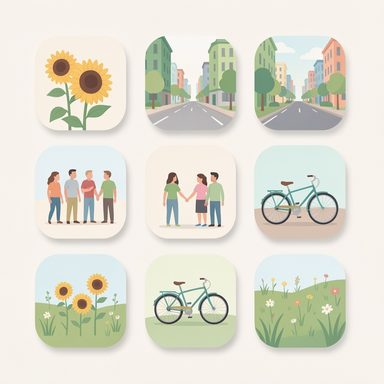
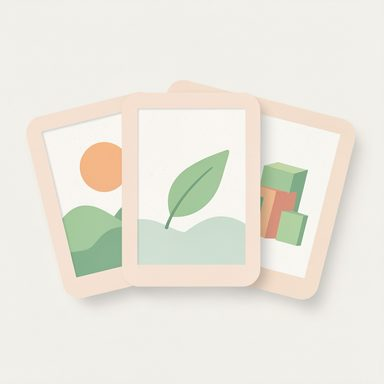
feat(web): show three collections in the arbeiten marketplace section
- Marktplatz shows the first three collections as App-Store cards (reuses
  CollectionCards with a new limit and an optional heading) instead of the
  single featured widget
- Bild & Video as a 3x2 grid with fixed-size preview sheets; new voice and
  mediathek illustrations
- Weitere Werkzeuge without Projekte, in a row of three
- Trends bars read a --dash-bar token: eucalyptus gradient on the neutral
  surface, unchanged flat accent on /wissen

diff --git a/apps/web/src/features/workplace/components/ArbeitenSections.tsx b/apps/web/src/features/workplace/components/ArbeitenSections.tsx
@@ -1,14 +1,7 @@
-import { type MarketplaceItem } from '@gruenerator/contracts';
-import {
-  featureById,
-  itemHref,
-  marketplaceHref,
-  useMarketplaceFrontpage,
-} from '@gruenerator/shared/marketplace';
-import { Button, SectionHeader, cn } from '@gruenerator/ui';
+import { marketplaceHref, useMarketplaceFrontpage } from '@gruenerator/shared/marketplace';
+import { SectionHeader, cn } from '@gruenerator/ui';
 import { type ReactNode } from 'react';
-import { PiChatCircleText, PiCheck, PiPlus, PiSparkle } from 'react-icons/pi';
-import { Link } from 'react-router-dom';
+import { Link, useNavigate } from 'react-router-dom';
 
 import {
   CANVAS_TOOLS,
@@ -17,17 +10,12 @@ import {
   WORKPLACE_TOOLS,
   filterWorkplaceTools,
 } from '../../../config/workplaceToolsConfig';
-import { chatPathOf, metaLine, viewOf } from '../../marketplace/kindViews';
-import {
-  type MarketplaceActions,
-  useMarketplaceActions,
-} from '../../marketplace/useMarketplaceActions';
+import { CollectionCards } from '../../marketplace/MarketplaceCollections';
 import { useMonitorLocaleParam } from '../../monitor/hooks/useMonitorLocaleParam';
 import { HeadlineSlider } from '../../notebook/wissen/HeadlineSlider';
 import { PollCard } from '../../notebook/wissen/PollCard';
 import { TrendsCard } from '../../notebook/wissen/TrendsCard';
 import { useWissenNews } from '../../notebook/wissen/useWissenNews';
-import { AsideCard } from '../../notebook/wissen/WissenLayout';
 
 import { ARBEITEN_GRID } from './arbeitenGrid';
 import { SHOW_TOOL_PREVIEWS, TOOL_PREVIEWS } from './ToolPreviews';
@@ -101,98 +89,9 @@ export function BriefingSection() {
   );
 }
 
-function ItemLink({
-  item,
-  className,
-  children,
-}: {
-  item: MarketplaceItem;
-  className: string;
-  children: ReactNode;
-}) {
-  const href = itemHref(item) ?? marketplaceHref();
-  return href.startsWith('http') ? (
-    <a href={href} target="_blank" rel="noopener noreferrer" className={className}>
-      {children}
-    </a>
-  ) : (
-    <Link to={href} className={className}>
-      {children}
-    </Link>
-  );
-}
-
-const SKELETON_BLOCK = 'rounded-xl bg-(--dash-skeleton)';
-
-/** „Zu meinen Grüneratoren" — only for items that aren't the person's own. */
-function SaveButton({ item, actions }: { item: MarketplaceItem; actions: MarketplaceActions }) {
-  if (item.isOwn) return null;
-  const label = item.saved ? viewOf(item).saveLabel.added : viewOf(item).saveLabel.add;
-  const Icon = item.saved ? PiCheck : PiPlus;
-  return (
-    <Button variant="outline" aria-pressed={item.saved} onClick={() => actions.toggleSave(item)}>
-      <Icon aria-hidden />
-      {label}
-    </Button>
-  );
-}
-
-function FeaturedCard({ item, actions }: { item: MarketplaceItem; actions: MarketplaceActions }) {
-  const page = useMarketplaceFrontpage();
-  const feature = featureById(page.data?.featureId ?? null);
-  const chatPath = chatPathOf(item);
-  const visual = viewOf(item).visual(item);
-  return (
-    <AsideCard
-      aria-labelledby="arbeiten-marktplatz-tipp"
-      className="md:flex-row md:items-center md:gap-6"
-    >
-      <div className="flex min-w-0 flex-1 flex-col gap-2.5">
-        <span className="text-xs font-bold uppercase tracking-[0.08em] text-(--dash-mg)">
-          {feature?.kicker ?? 'Neu im Marktplatz'}
-        </span>
-        <h3
-          id="arbeiten-marktplatz-tipp"
-          className="m-0 text-2xl font-bold leading-tight text-balance text-foreground-heading md:text-[28px]"
-        >
-          {item.title}
-        </h3>
-        <p className="m-0 line-clamp-3 max-w-[34rem] text-[15px] leading-relaxed text-muted-foreground">
-          {feature?.pitch ?? item.description}
-        </p>
-        <span className="text-[13px] text-muted-foreground">{metaLine(item)}</span>
-        <div className="mt-1 flex flex-wrap gap-2">
-          {chatPath ? (
-            <Button asChild>
-              <Link to={chatPath}>
-                <PiChatCircleText aria-hidden />
-                Im Chat ausprobieren
-              </Link>
-            </Button>
-          ) : (
-            <Button asChild>
-              <ItemLink item={item} className="">
-                Ansehen
-              </ItemLink>
-            </Button>
-          )}
-          <SaveButton item={item} actions={actions} />
-        </div>
-      </div>
-      <span
-        aria-hidden
-        className="hidden size-28 shrink-0 items-center justify-center rounded-3xl bg-(--dash-mg-tint) text-6xl text-(--dash-mg) md:flex"
-      >
-        {visual.type === 'icon' ? visual.icon : <PiSparkle />}
-      </span>
-    </AsideCard>
-  );
-}
-
 export function MarketplaceSection() {
   const page = useMarketplaceFrontpage();
-  const { actions, dialogs } = useMarketplaceActions();
-  const featured = page.data?.featured ?? null;
+  const navigate = useNavigate();
 
   return (
     <ArbeitenSection
@@ -203,14 +102,20 @@ export function MarketplaceSection() {
         </Link>
       }
     >
-      <div className={NEUTRAL_SURFACE}>
-        {page.isPending ? (
-          <div className={cn(SKELETON_BLOCK, 'h-56 rounded-[20px]')} />
-        ) : (
-          featured && <FeaturedCard item={featured} actions={actions} />
-        )}
-      </div>
-      {dialogs}
+      {page.isPending ? (
+        <div className={cn(NEUTRAL_SURFACE, 'grid grid-cols-1 gap-md md:grid-cols-3')}>
+          {[0, 1, 2].map((i) => (
+            <div key={i} className="aspect-[4/3] rounded-2xl bg-(--dash-skeleton)" />
+          ))}
+        </div>
+      ) : (
+        <CollectionCards
+          title={null}
+          limit={3}
+          collections={page.data?.collections ?? []}
+          onOpen={(collection) => navigate(marketplaceHref({ collection }))}
+        />
+      )}
     </ArbeitenSection>
   );
 }
@@ -243,6 +148,9 @@ function pickTools(entries: readonly { id: string; theme: string; title?: string
 }
 
 // Bild & Video reads as one family: every card in the Studio lavender.
+/** Bild & Video: six cards in a 3 × 2 grid (two columns on phones). */
+export const MEDIA_GRID = 'grid grid-cols-2 gap-3 md:grid-cols-3 lg:gap-4';
+
 export const MEDIA_TOOLS = pickTools([
   { id: 'canvas-vorlagen', theme: 'canvas-ki' },
   { id: 'profilbild', theme: 'canvas-ki' },
@@ -252,12 +160,14 @@ export const MEDIA_TOOLS = pickTools([
   { id: 'mediathek', theme: 'canvas-ki' },
 ]);
 
-// Weitere Werkzeuge: one pastel each — teal, coral, soft yellow, blue.
+/** Three tools: one row of three, stacked on a phone so none stands alone. */
+export const MORE_GRID = 'grid grid-cols-1 gap-3 sm:grid-cols-3 lg:gap-4';
+
+// Weitere Werkzeuge: one pastel each — teal, coral, soft yellow.
 export const MORE_TOOLS = pickTools([
   { id: 'uebersetzer', theme: 'canvas-vorlagen' },
   { id: 'scanner', theme: 'bild-erweitern' },
   { id: 'zeichenzaehler', theme: 'agents' },
-  { id: 'projekte', theme: 'projekte' },
 ]);
 
 const TOOL_CARD =
@@ -290,7 +200,14 @@ function ToolCardLink({ tool, index }: { tool: ToolCard; index: number }) {
         {tool.title}
       </span>
       {/* Two tilted sheets peeking from the bottom-right corner; the front one lifts on hover. */}
-      <span aria-hidden className={cn('absolute right-1', '-bottom-3 h-20 w-[44%] md:h-24')}>
+      {/* A preview keeps a fixed, slightly upright sheet; on wide cards a percentage would stretch it. */}
+      <span
+        aria-hidden
+        className={cn(
+          'absolute -bottom-3 h-20 md:h-24',
+          preview ? 'right-4 w-28 md:w-32' : 'right-1 w-[44%]'
+        )}
+      >
         <span
           className={cn(
             'absolute bottom-0 rounded-lg',
@@ -332,16 +249,19 @@ function ToolCardLink({ tool, index }: { tool: ToolCard; index: number }) {
 export function ToolCardsSection({
   title,
   tools,
+  gridClassName = ARBEITEN_GRID,
   ...rest
 }: {
   title: string;
   tools: ToolCard[];
+  /** Defaults to the page grid; Bild & Video uses 3 × 2. */
+  gridClassName?: string;
   'data-tour'?: string;
 }) {
   if (tools.length === 0) return null;
   return (
     <ArbeitenSection title={title} {...rest}>
-      <ul className={cn(ARBEITEN_GRID, 'm-0 list-none p-0')}>
+      <ul className={cn(gridClassName, 'm-0 list-none p-0')}>
         {tools.map((tool, index) => (
           <li key={tool.id}>
             <ToolCardLink tool={tool} index={index} />

diff --git a/apps/web/src/features/marketplace/MarketplaceCollections.tsx b/apps/web/src/features/marketplace/MarketplaceCollections.tsx
@@ -128,21 +128,30 @@ export function CollectionCards({
   onOpen,
   title = 'Kollektionen',
   row,
+  limit,
 }: {
   collections: { collectionId: MarketplaceCollectionId; items: MarketplaceItem[] }[];
   onOpen: (id: MarketplaceCollectionId) => void;
-  title?: string;
+  /** `null`: the surrounding section already carries the heading. */
+  title?: string | null;
   /** Only the collections of this front page row (`rest`: those without one); all when left out. */
   row?: NonNullable<MarketplaceCollection['row']> | 'rest';
+  /** Show only the first cards, in the response's order. */
+  limit?: number;
 }): JSX.Element | null {
   const headingId = useId();
-  const cards = collectionCardsFor(collections, row);
+  const cards = collectionCardsFor(collections, row).slice(0, limit);
   if (cards.length === 0) return null;
   return (
-    <section aria-labelledby={headingId} className="flex flex-col gap-md">
-      <h2 id={headingId} className="m-0 text-xl font-semibold text-foreground-heading">
-        {title}
-      </h2>
+    <section
+      {...(title === null ? { 'aria-label': 'Kollektionen' } : { 'aria-labelledby': headingId })}
+      className="flex flex-col gap-md"
+    >
+      {title !== null && (
+        <h2 id={headingId} className="m-0 text-xl font-semibold text-foreground-heading">
+          {title}
+        </h2>
+      )}
       <ul
         className={cn(
           'm-0 grid list-none grid-cols-1 gap-md p-0',

diff --git a/apps/web/src/features/workplace/tabs/ArbeitenTab.tsx b/apps/web/src/features/workplace/tabs/ArbeitenTab.tsx
@@ -5,7 +5,9 @@ import { DocsHome } from '../../docs/DocsPage';
 import { NewContentMenu } from '../../docs/NewContentMenu';
 import {
   BriefingSection,
+  MEDIA_GRID,
   MEDIA_TOOLS,
+  MORE_GRID,
   MORE_TOOLS,
   MarketplaceSection,
   ToolCardsSection,
@@ -34,9 +36,14 @@ const ArbeitenTab = () => {
           </Suspense>
         </div>
         <BriefingSection />
-        <ToolCardsSection title="Bild & Video" tools={MEDIA_TOOLS} data-tour="arbeiten-tools" />
+        <ToolCardsSection
+          title="Bild & Video"
+          tools={MEDIA_TOOLS}
+          gridClassName={MEDIA_GRID}
+          data-tour="arbeiten-tools"
+        />
         <MarketplaceSection />
-        <ToolCardsSection title="Weitere Werkzeuge" tools={MORE_TOOLS} />
+        <ToolCardsSection title="Weitere Werkzeuge" tools={MORE_TOOLS} gridClassName={MORE_GRID} />
       </div>
     </PageContainer>
   );

diff --git a/apps/web/src/components/dashboard/dashboardTokens.css b/apps/web/src/components/dashboard/dashboardTokens.css
@@ -7,6 +7,7 @@
  */
 .dashboard-surface {
   --dash-mg: #b0005f; /* Akzent: Links, Linien, aktive Marken */
+  --dash-bar: linear-gradient(var(--dash-mg), var(--dash-mg)); /* Balken-Füllung (background-image), z. B. Trends */
   --dash-mg-ink: #8a004a; /* Text auf der Tönung */
   --dash-on-mg: #ffffff; /* Text auf voller Akzentfläche */
   --dash-mg-tint: #fce4ef; /* Kachel- und Knopffläche */
@@ -37,6 +38,7 @@
  */
 .dashboard-surface.dashboard-neutral {
   --dash-mg: #2e6b49;
+  --dash-bar: linear-gradient(90deg, #b5dccb, #5a9e84 55%, #2e6b49);
   --dash-mg-ink: #1f2a23;
   --dash-on-mg: #ffffff;
   --dash-mg-tint: #edf1ed;
@@ -52,6 +54,7 @@
 
 [data-theme='dark'] .dashboard-surface.dashboard-neutral {
   --dash-mg: #8fc9a9;
+  --dash-bar: linear-gradient(90deg, #2f5a48, #5f9f86 55%, #a6d6c0);
   --dash-mg-ink: #e3ebe6;
   --dash-on-mg: #121614;
   --dash-mg-tint: #222925;

diff --git a/apps/web/src/features/notebook/wissen/TrendsCard.tsx b/apps/web/src/features/notebook/wissen/TrendsCard.tsx
@@ -52,7 +52,7 @@ export function TrendsCard({ locale, to }: { locale: MonitorLocale; to: string }
               </span>
               <span className="h-1 rounded-full bg-(--dash-mg-tint) md:h-[5px] xl:h-1.5">
                 <span
-                  className="block h-full rounded-full bg-(--dash-mg)"
+                  className="block h-full rounded-full bg-(image:--dash-bar)"
                   style={{ width: `${Math.max(MIN_BAR_PCT, Math.round((k.count / max) * 100))}%` }}
                 />
               </span>
